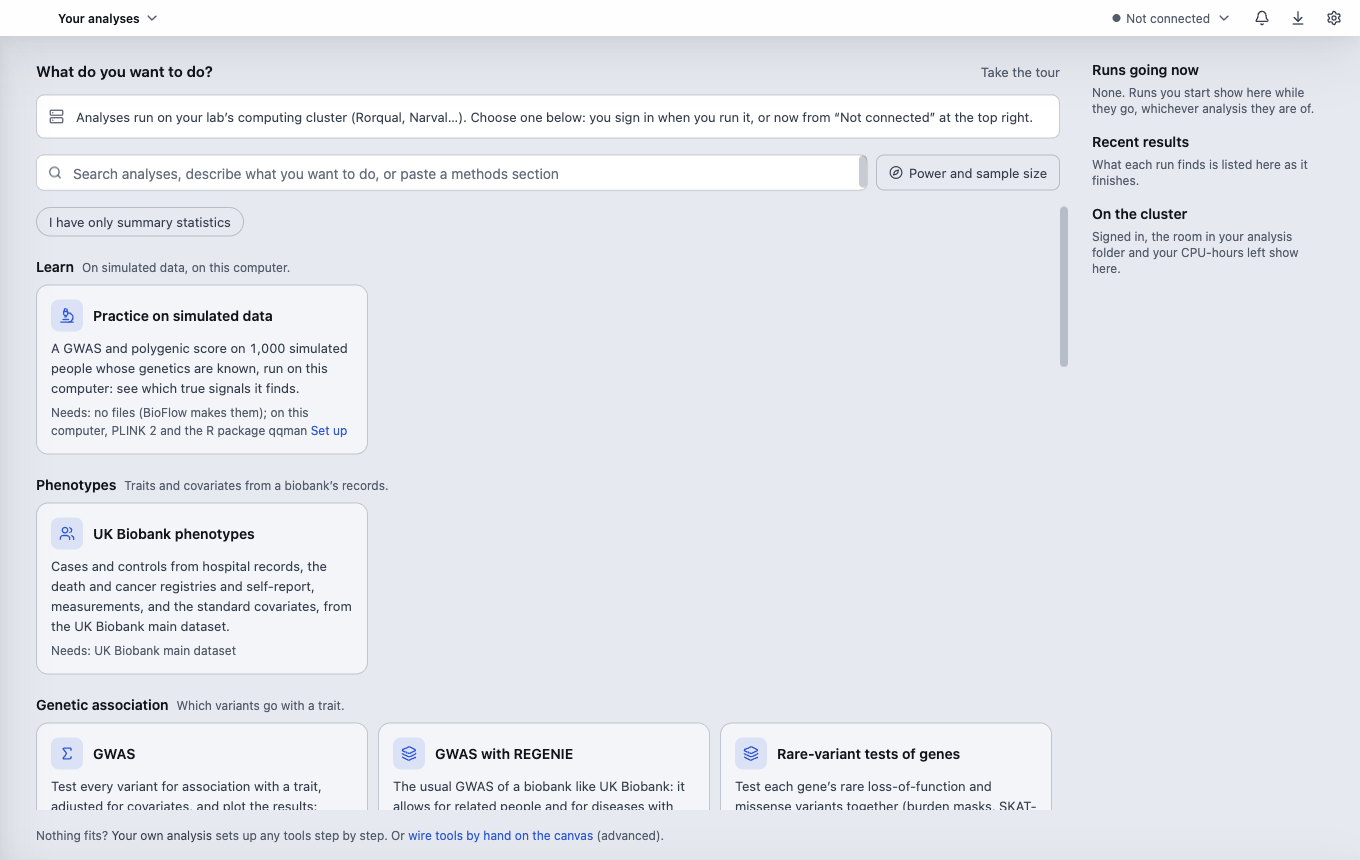
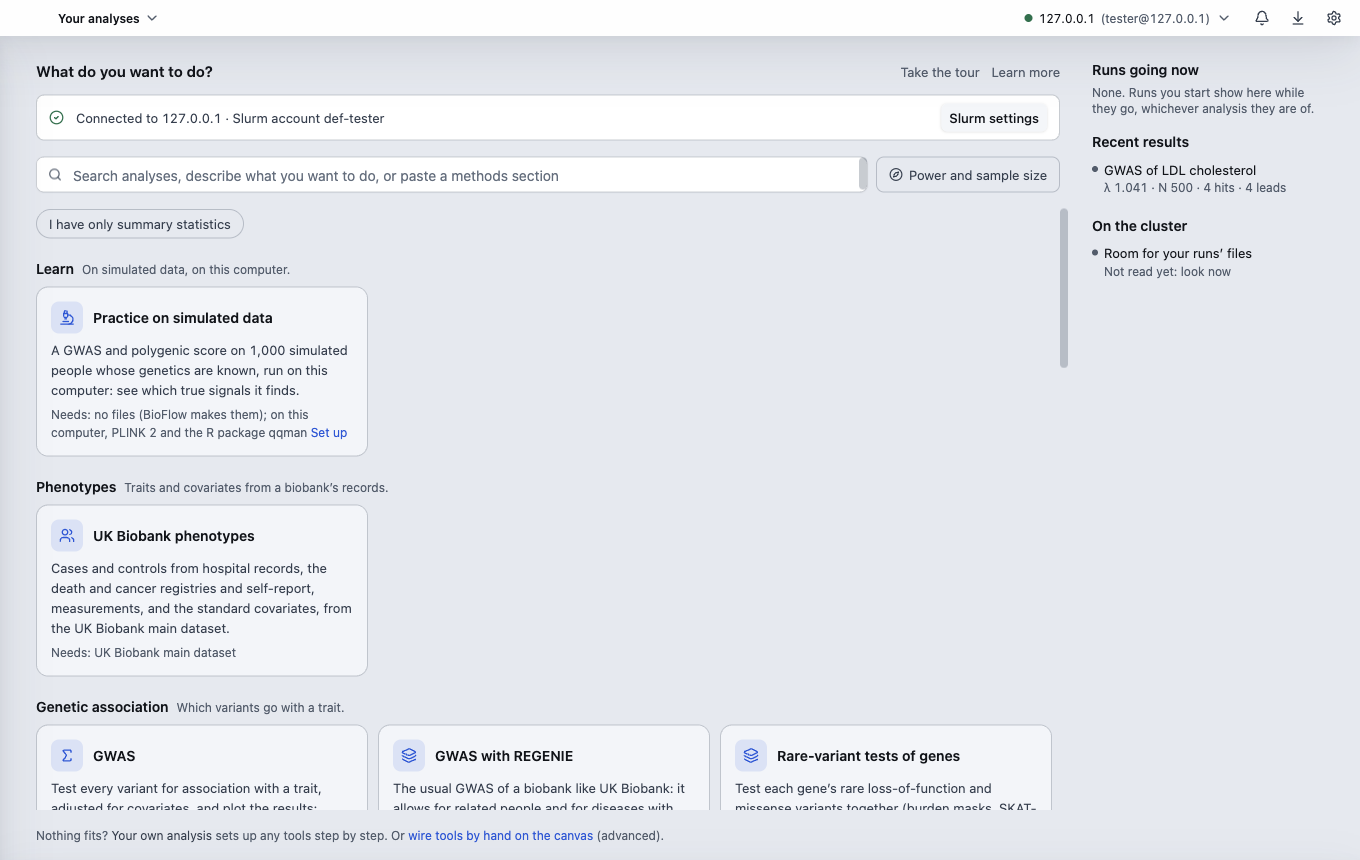
5.4 The guide's sign-in and first-window screenshots with their Learn more links

diff --git a/guide/install.md b/guide/install.md
@@ -21,7 +21,7 @@ The `.zip`, `.yml` and `.blockmap` files are what the app's updater reads: you d
 
 ## The first window
 
-![The first window: What do you want to do?, the connection strip, the search box and the gallery of analyses](install-first-window.png)
+![The first window, signed in: What do you want to do?, the connection strip, the search box and the gallery of analyses](install-first-window.png)
 
 The first window asks **What do you want to do?**:
 - **The strip under it** says where analyses run. Before you sign in it says you sign in when you run, or now from **Not connected** at the top right. Once you are signed in it says **Connected to … · Slurm account …**.
